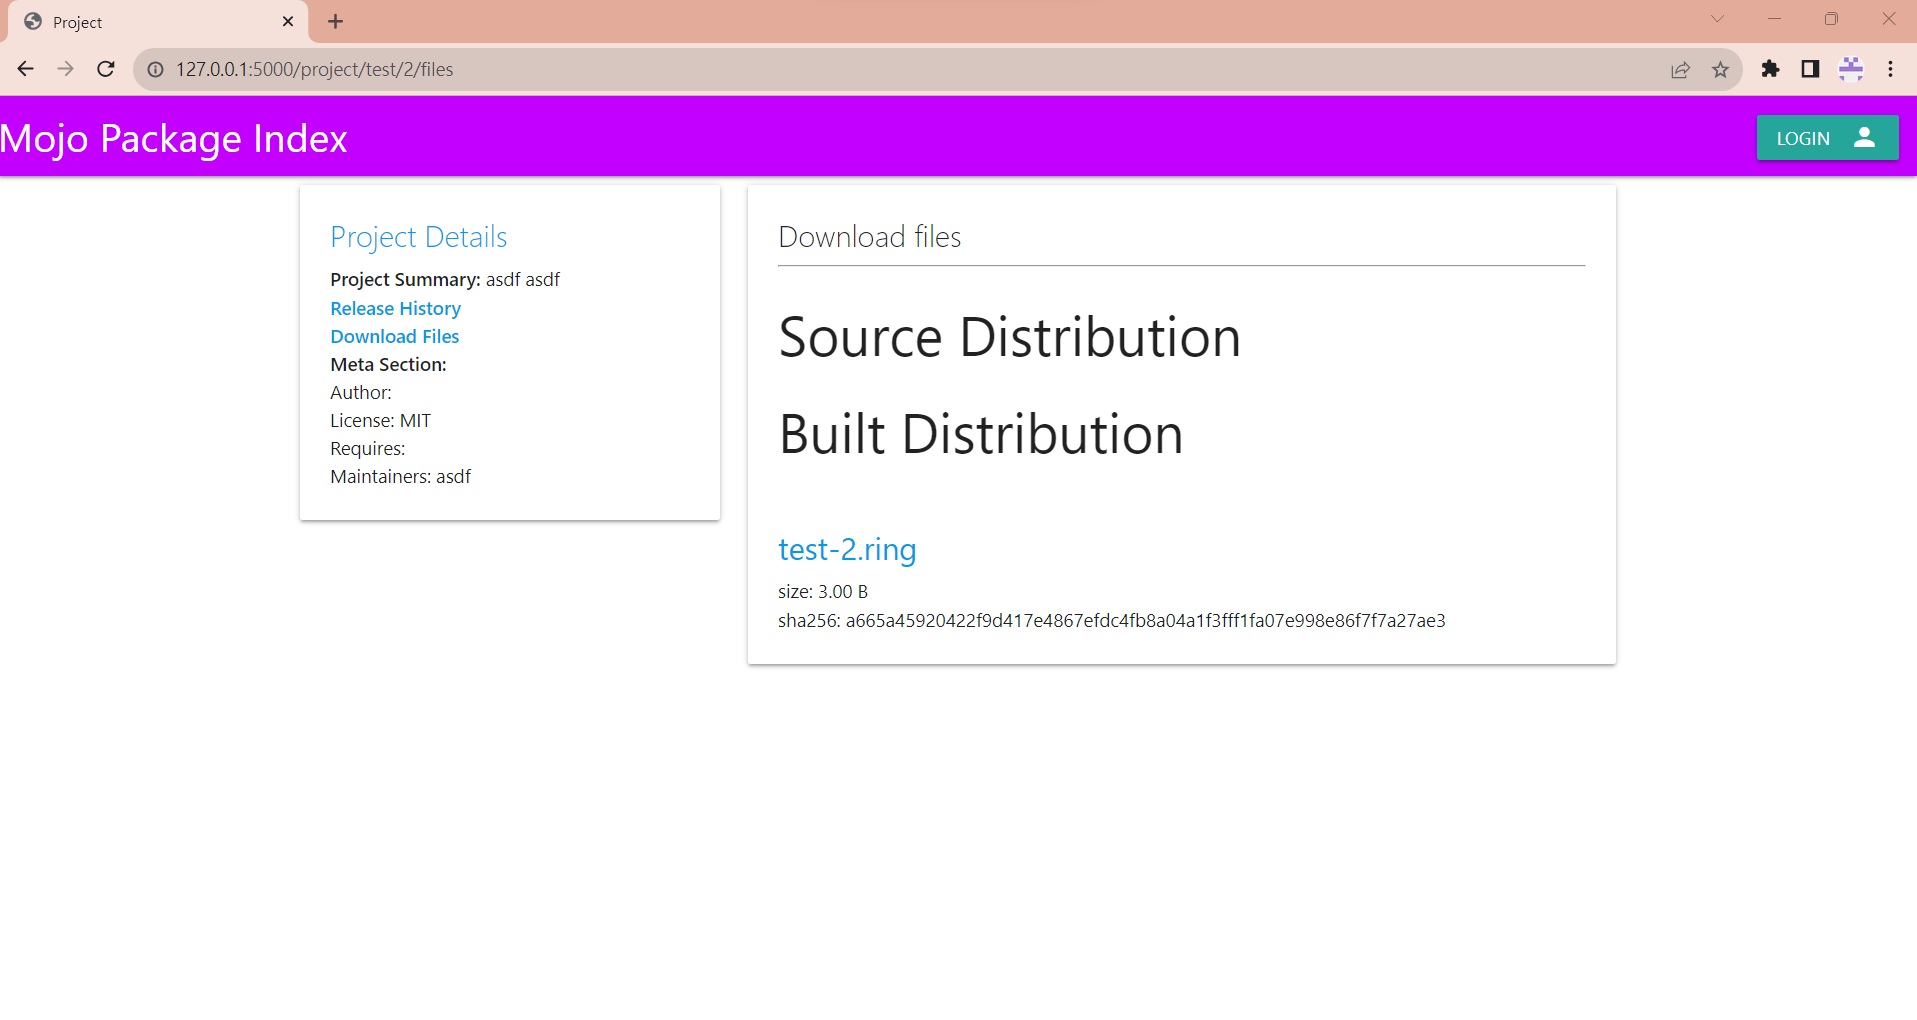
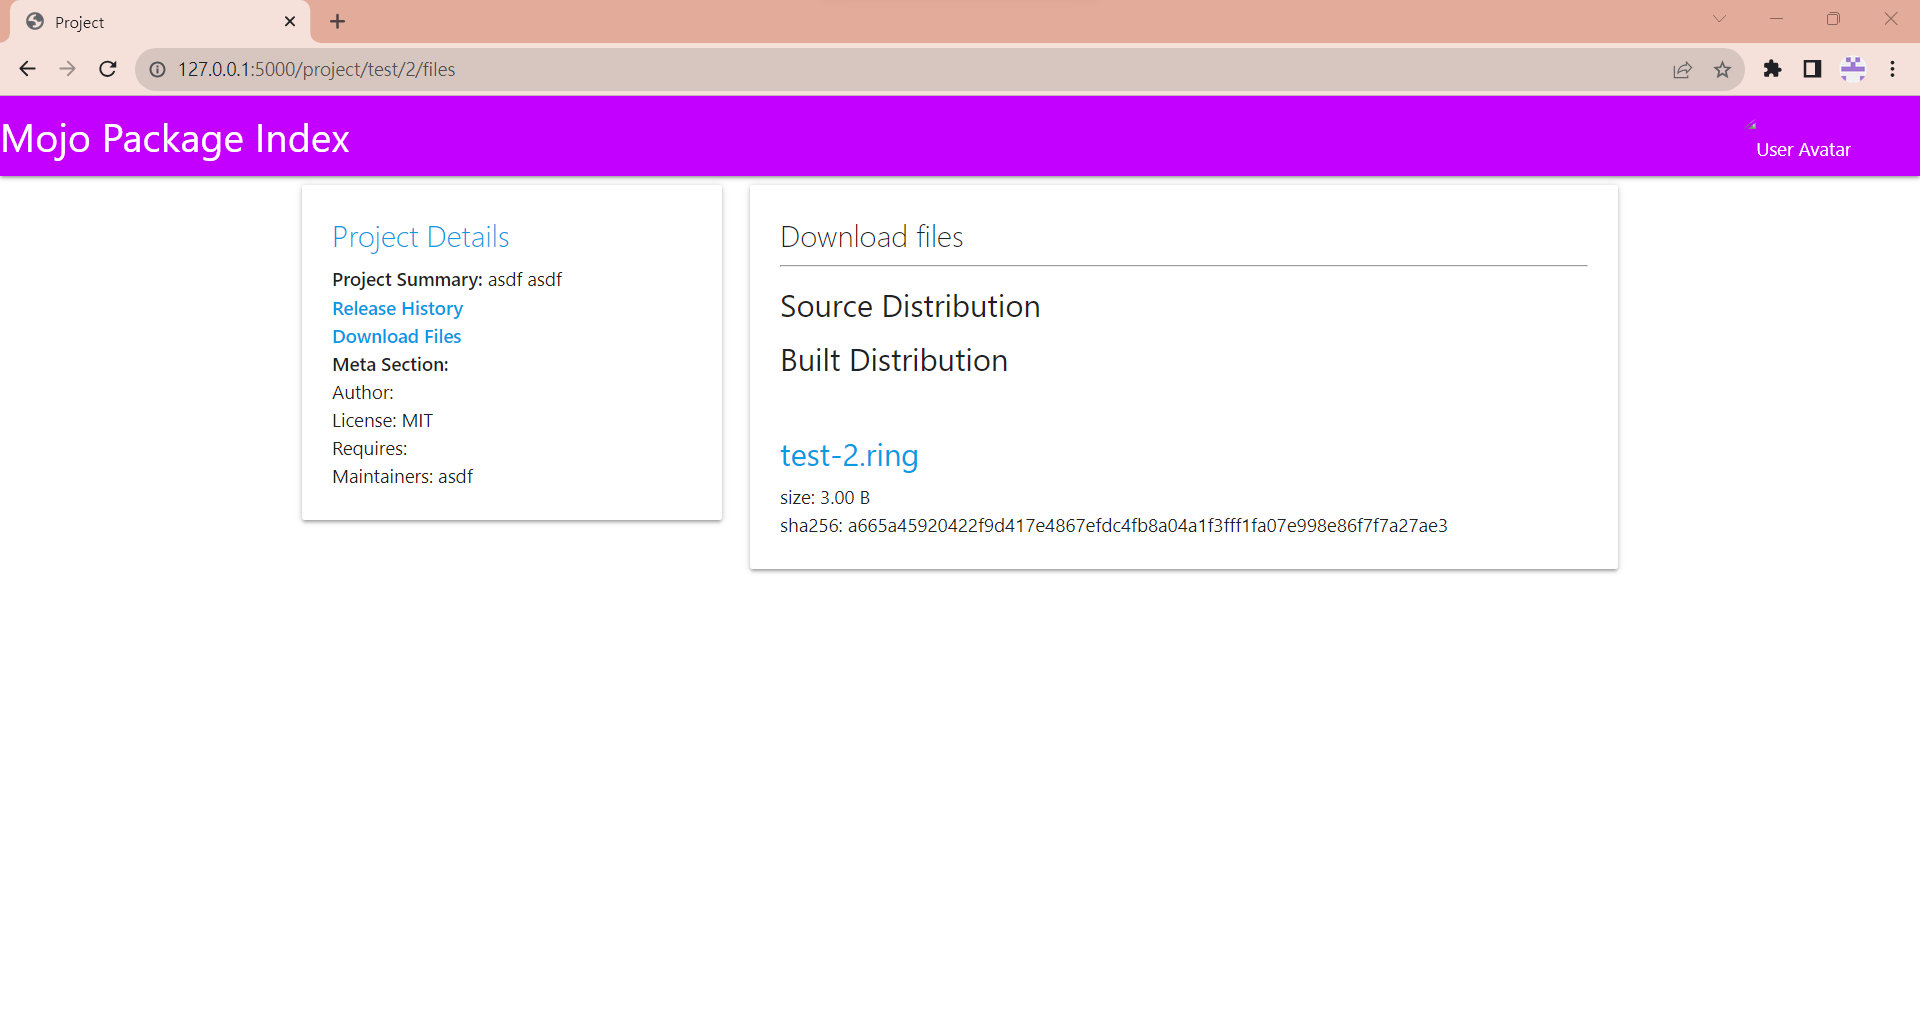
change font size

diff --git a/src/mojopi/templates/project_download.html b/src/mojopi/templates/project_download.html
@@ -26,10 +26,10 @@
             <span class="card-title">Download files</span>
             <hr />
             <p>
-              <h3>Source Distribution</h3>
+              <h5>Source Distribution</h5>
             </p>
             <p>
-              <h3>Built Distribution</h3><br>
+              <h5>Built Distribution</h5><br>
               {% for ring in rings %}
               <p>
                 <h5>
